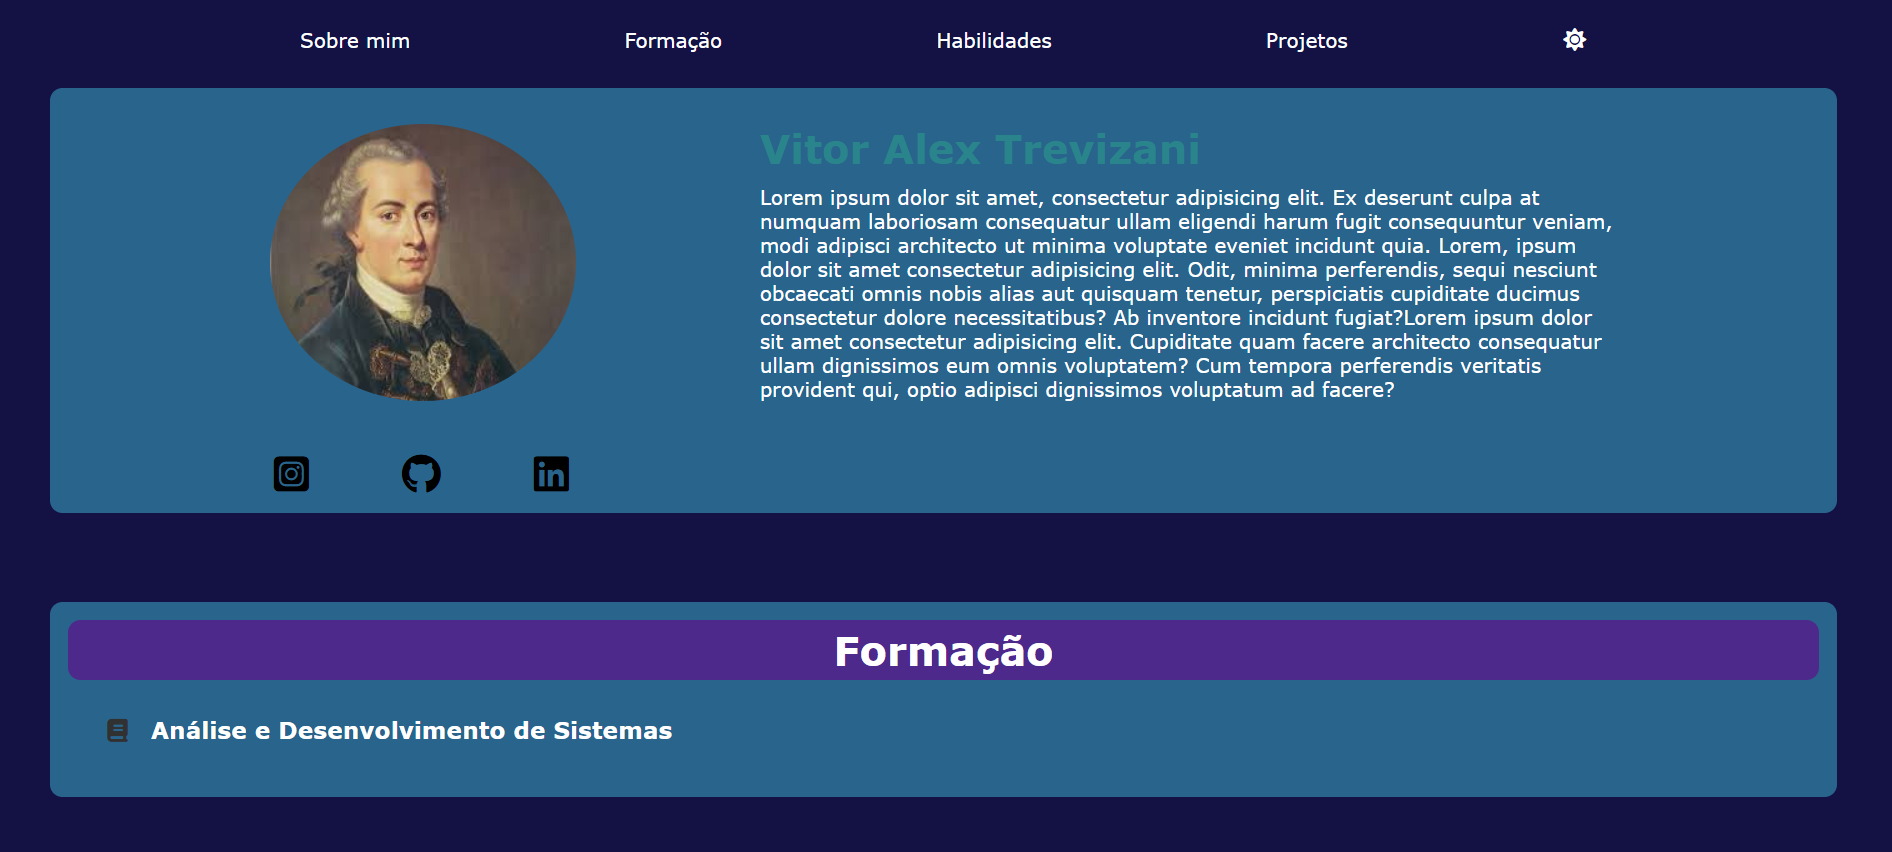
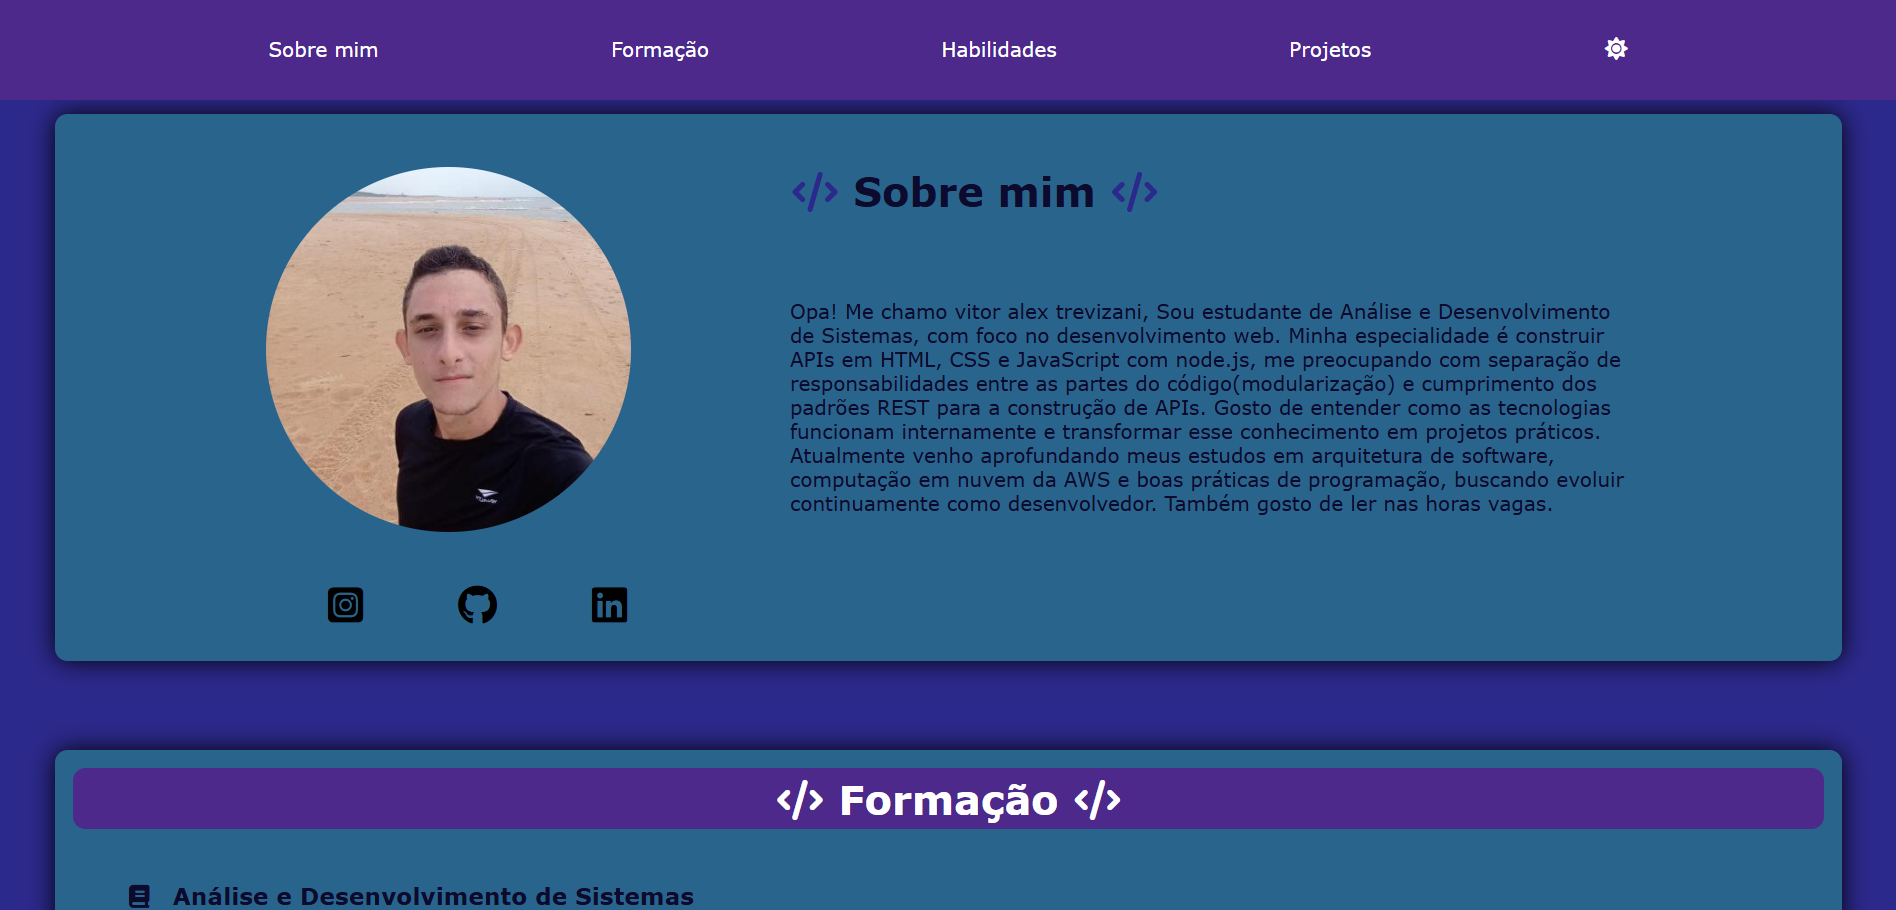
Alteração da imagem do projeto portifólio na parte de projetos

diff --git a/index.html b/index.html
@@ -245,7 +245,7 @@
                     <img src="img/pensa_rapido.png" alt="">
                     <div>
                        <h3>Pensa rápido - o jogo matemático</h3>
-                        <p>Foi a primeira aplicação em node.js que desenvolvi, e muitas das tecnologias que utilizei para isso não são usadas em meus projetos recentes para fins de maior agilidade e melhor arquitetura. Esse projeto foi criado com fins educacionais com o intuito aperfeiçoar a inteligência lógico-matemática de alguns familiares. Ele foi construído de forma que o front-end é dependente do back-end, e esse último manipula e passa variáveis para o primeiro por meio da template engine Handlebars. É uma aplicação monolítica com arquitetura MVC(Model-View-Controller). A aplicação é um jogo que mostra na tela uma conta de adição e algumas alternativas. O usuário deverá clicar na alternativa correta com um limite de tempo. O jogador possui um número de tentativas, e o jogo acaba após ele esgotá-las. Antes de iniciar o jogo, a aplicação pedirá ao jogador para escolher um nível de dificuldade, que altera a quantidade de tempo disponível para responder cada rodada e o tamanho dos números envolvidos na conta. Futuramente, pretendo melhorar as regras do jogo e adicionar mais operações (como subtração, multiplicação e divisão) e números decimais. Utilizei o Mongoose juntamente com o Mongo DB para modelar e armazenar os dados gerados pela aplicação. Utilizei Express para criar o servidor, Bcrypt para segurança dos dados sensíveis e Passport para autenticação. Há três níveis de usuário. Desenvolvi testes unitários com Jest. A aplicação também possui outras funcionalidades focadas na experiência do usuário: fotos de perfil animadas, rankings globais para cada nível de dificuldade</p>
+                        <p>Foi a primeira aplicação em node.js que desenvolvi, e muitas das tecnologias que utilizei para isso não são usadas em meus projetos recentes para fins de maior agilidade e melhor arquitetura. Esse projeto foi criado com fins educacionais com o intuito aperfeiçoar a inteligência lógico-matemática de alguns familiares. Ele foi construído de forma que o front-end é dependente do back-end, e esse último manipula e passa variáveis para o primeiro por meio da template engine Handlebars. É uma aplicação monolítica com arquitetura MVC(Model-View-Controller). A aplicação é um jogo que mostra na tela uma conta de adição e algumas alternativas. O usuário deverá clicar na alternativa correta com um limite de tempo. O jogador possui um número de tentativas, e o jogo acaba após ele esgotá-las. Antes de iniciar o jogo, a aplicação pedirá ao jogador para escolher um nível de dificuldade, que altera a quantidade de tempo disponível para responder cada rodada e o tamanho dos números envolvidos na conta. Futuramente, pretendo melhorar as regras do jogo e adicionar mais operações (como subtração, multiplicação e divisão) e números decimais. Utilizei o Mongoose juntamente com o Mongo DB para modelar e armazenar os dados gerados pela aplicação. Utilizei Express para criar o servidor, Bcrypt para segurança dos dados sensíveis e Passport para autenticação. Há três níveis de usuário. Desenvolvi testes unitários com Jest. A aplicação também possui outras funcionalidades focadas na experiência do usuário: fotos de perfil animadas e rankings globais para cada nível de dificuldade.</p>
                         <p><i class="fa-brands fa-github fa-2xl"></i><a href="https://github.com/VitorTrevizani/Jogo_matematico" target="_blank">Veja esse projeto no github</a></p>
                     </div>
                 </div>
